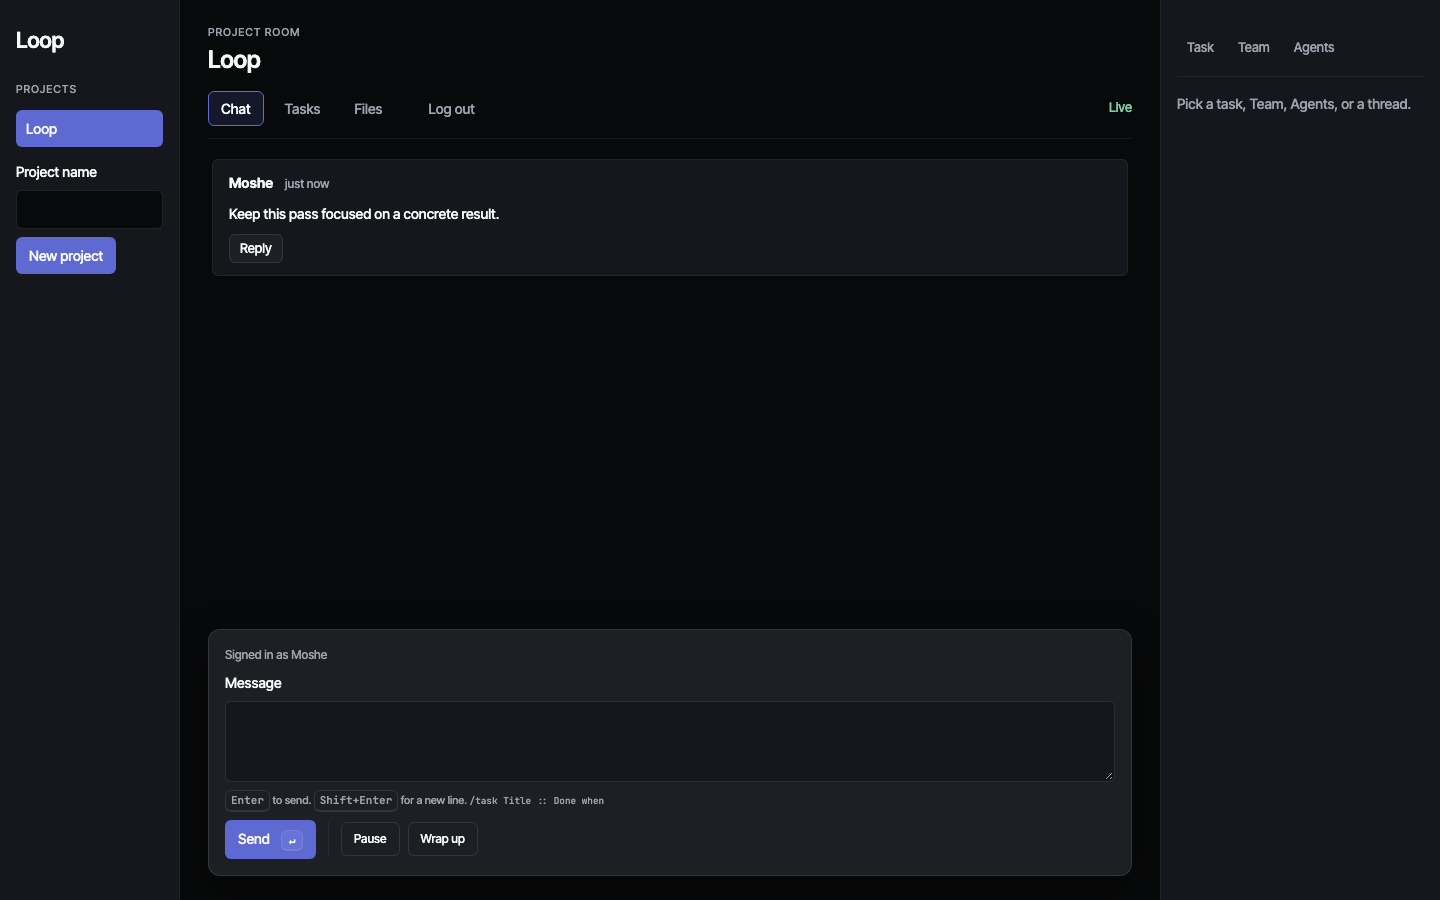
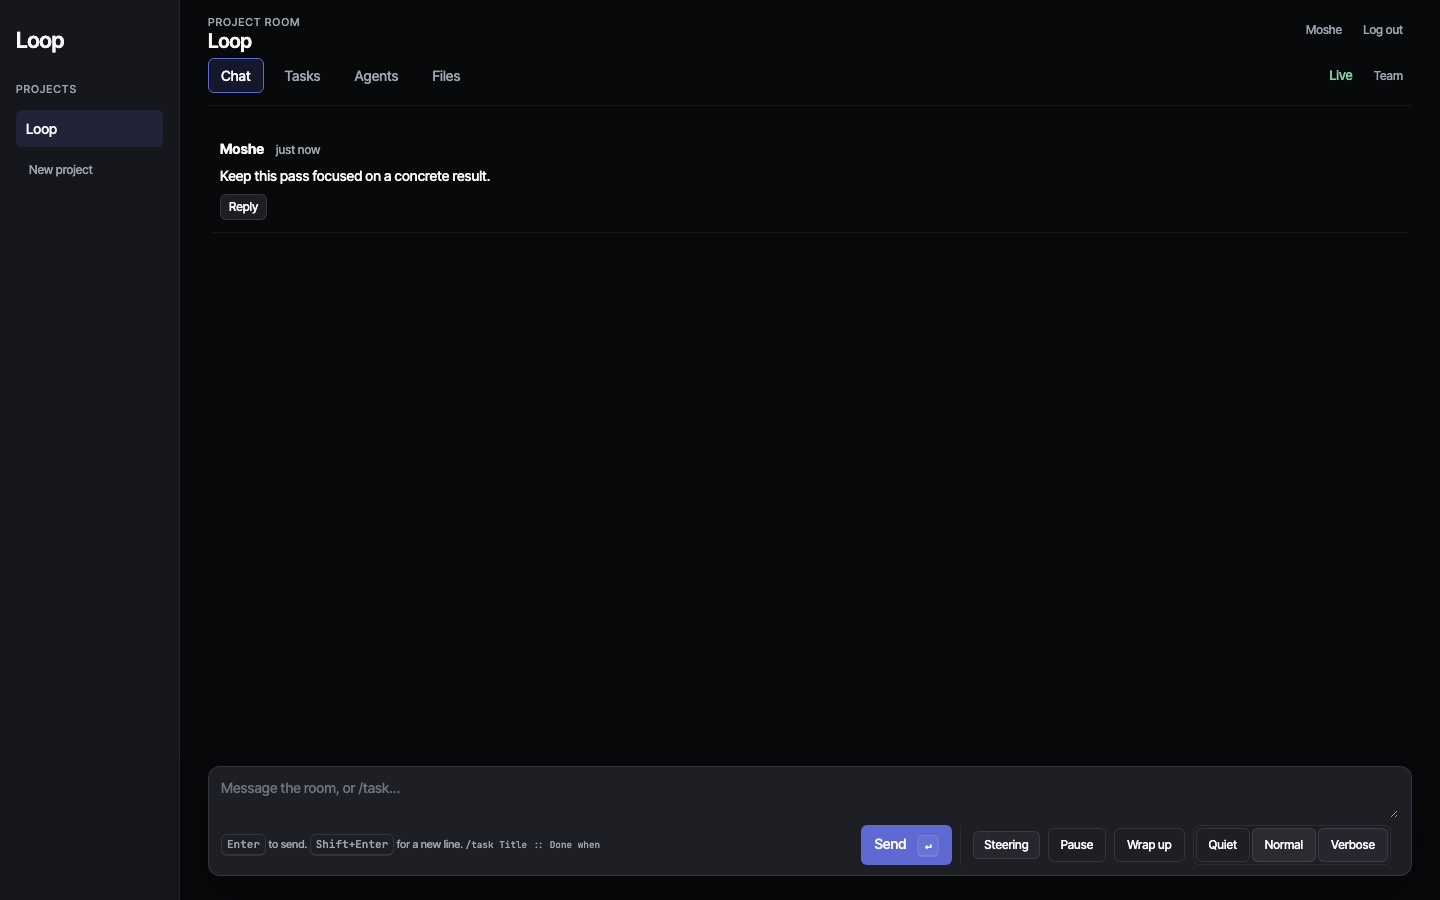
feat: collapse room steering behind a disclosure
The composer was 154px of always-on chrome under a transcript that had
597px to work with. Pause, Wrap up and the verbosity dial sat in the
primary input on every room, including rooms with no agent running.

They now live in a hidden panel behind a Steering toggle that carries
aria-expanded and aria-controls, and reports paused and wrap-up state on
its own label so a collapsed panel never hides that a room is stopped.
The composer hint and actions share a row instead of each spanning the
grid, and the header stack above the tab row tightens.

Measured at 1440x900, room view, same harness before and after:
composer 154px to 110px, transcript 597px to 660px, room views nav
y=78 to y=58. Expanding steering does not grow the composer.

diff --git a/apps/web/app/globals.css b/apps/web/app/globals.css
@@ -52,7 +52,7 @@ aside { padding: 24px 16px; background: var(--panel); min-width: 0; }
 .inspector-body { flex: 1; overflow-y: auto; padding-top: 16px; }
 .inspector-empty { color: var(--secondary); font-size: 14px; }
 .inspector .task-detail { margin-top: 0; }
-main { padding: 24px 28px; min-width: 0; display: flex; flex-direction: column; height: 100vh; background: var(--ground); overflow-y: auto; }
+main { padding: 16px 28px 24px; min-width: 0; display: flex; flex-direction: column; height: 100vh; background: var(--ground); overflow-y: auto; }
 main > header { flex-shrink: 0; position: relative; padding-right: 180px; }
 #account-chrome { position: absolute; right: 0; top: 0; }
 .account-chrome { display: flex; align-items: center; gap: 12px; font-size: 12px; color: var(--secondary); }
@@ -60,13 +60,13 @@ main > header { flex-shrink: 0; position: relative; padding-right: 180px; }
 .room-navigation { display: flex; align-items: center; gap: 12px; border-bottom: 1px solid var(--hairline); padding-bottom: 12px; flex-shrink: 0; }
 .room-navigation nav { flex: 1; border: 0; padding: 0; }
 .room-tools { display: flex; gap: 4px; }
-main > header .muted { font-size: 11px; letter-spacing: .08em; text-transform: uppercase; margin-bottom: 4px; }
+main > header .muted { font-size: 11px; letter-spacing: .08em; text-transform: uppercase; margin-bottom: 0; line-height: 1.2; }
 /* The chat section owns the leftover height so the transcript can never overlap
    the composer. A hardcoded transcript height guesses the composer's size and
    clipped the answer form under it. */
 main > section[aria-label="Chat"] { display: flex; flex-direction: column; flex: 1; min-height: 0; }
 h1, h2, h3, p { margin-top: 0; }
-h1 { font-size: 20px; line-height: 1.25; letter-spacing: -.02em; margin-bottom: 8px; font-weight: 600; }
+h1 { font-size: 20px; line-height: 1.25; letter-spacing: -.02em; margin-bottom: 4px; font-weight: 600; }
 /* The rail wordmark is not a heading: the room's h1 already names the project,
    and two "Loop" headings read as two landmarks to a screen reader. */
 .brand { font-size: 22px; letter-spacing: -.02em; font-weight: 600; margin-bottom: 24px; }
@@ -168,7 +168,7 @@ th, td { padding: 14px 8px; border-bottom: 1px solid var(--hairline); vertical-a
   line-height: 1;
 }
 .inspector-thread { display: flex; flex-direction: column; gap: 12px; min-height: 0; }
-.inspector-thread .composer { margin-bottom: 0; padding: 12px; }
+.inspector-thread .composer { margin-bottom: 0; padding: 12px; grid-template-columns: minmax(0, 1fr) auto; }
 .chat-task { border-left: 2px solid var(--border); padding-left: 14px; }
 .chat-task.question-card {
   background: var(--alert-soft);
@@ -277,16 +277,20 @@ th, td { padding: 14px 8px; border-bottom: 1px solid var(--hairline); vertical-a
 .proposal-options .proposal-option input[type="radio"] { flex: 0 0 auto; width: 16px; height: 16px; margin: 0; }
 .review-actions { display: flex; flex-wrap: wrap; gap: 8px; }
 .review-actions button { font-size: 12px; padding: 5px 10px; }
-.composer { margin-bottom: 0; flex-shrink: 0; gap: 8px; background: var(--surface); border-color: var(--border); border-radius: var(--radius-panel); box-shadow: var(--shadow-composer); }
+.composer { margin-bottom: 0; flex-shrink: 0; grid-template-columns: minmax(0, 1fr) auto; gap: 6px 12px; padding: 10px 12px; background: var(--surface); border-color: var(--border); border-radius: var(--radius-panel); box-shadow: var(--shadow-composer); }
 .composer textarea { background: transparent; border: 0; padding: 0; resize: vertical; max-height: 30vh; }
 .composer > .muted { font-size: 12px; }
-.composer .composer-hint { font-size: 11px; line-height: 1.8; }
+.composer .composer-hint { font-size: 11px; line-height: 1.3; align-self: center; margin: 0; }
 .composer:focus-within { border-color: var(--accent); }
-.composer-actions { display: flex; align-items: center; flex-wrap: wrap; gap: 12px; }
+.composer-actions { display: flex; align-items: center; flex-wrap: wrap; gap: 8px; margin: 0; }
 .room-steering { display: flex; align-items: center; flex-wrap: wrap; gap: 8px; border-left: 1px solid var(--hairline); padding-left: 12px; }
 .room-steering button { background: transparent; font-size: 12px; }
+.room-steering-toggle { padding: 4px 10px; }
+.room-steering-toggle[aria-expanded="true"] { background: var(--raised); }
+.room-steering-panel { display: flex; align-items: center; flex-wrap: wrap; gap: 8px; }
+.room-steering-panel[hidden] { display: none; }
 .room-steering .muted { font-size: 12px; }
-.verbosity-dial { display: flex; gap: 2px; border: 1px solid var(--hairline); border-radius: 6px; padding: 2px; }
+.verbosity-dial { display: flex; gap: 2px; border: 1px solid var(--hairline); border-radius: var(--radius-small); padding: 2px; }
 .verbosity-dial button[aria-pressed="true"] { background: var(--hairline); }
 .composer .wide { grid-column: 1 / -1; margin: 0; }
 nav button[aria-pressed="true"] { background: var(--accent-soft); color: var(--text); border-color: var(--accent); }

diff --git a/apps/web/components/RoomSteering.tsx b/apps/web/components/RoomSteering.tsx
@@ -8,9 +8,11 @@ export default function RoomSteering({ roomId }: { roomId: string }) {
   const [room, setRoom] = useState<RoomSummary | null>(null);
   const [busy, setBusy] = useState(false);
   const [error, setError] = useState('');
+  const [open, setOpen] = useState(false);
   const saving = useRef(false);
   const revision = useRef(0);
   const path = `/rooms/${encodeURIComponent(roomId)}`;
+  const panelId = 'room-steering-panel';
 
   useEffect(() => {
     const controller = new AbortController();
@@ -51,25 +53,33 @@ export default function RoomSteering({ roomId }: { roomId: string }) {
     } finally { saving.current = false; setBusy(false); }
   }
 
+  const status = `${room?.paused ? 'Paused. ' : ''}${room?.wrapUp ? 'Wrap up queued.' : ''}`;
   return <div className="room-steering" role="group" aria-label="Room steering">
-    <button type="button" disabled={!room || room.role !== 'owner' || busy}
-      title={room?.role === 'member' ? 'Only room owners can steer' : 'Pause new agent turns; running turns can finish'}
-      onClick={() => { void steer({ paused: !room?.paused }); }}>
-      {room?.paused ? 'Resume' : 'Pause'}
+    <button type="button" className="room-steering-toggle" aria-label="Steering" aria-expanded={open} aria-controls={panelId}
+      title={status || 'Pause, wrap up, and verbosity'}
+      onClick={() => { setOpen((value) => !value); }}>
+      Steering{room?.paused ? ' · Paused' : ''}{room?.wrapUp ? ' · Wrap up queued' : ''}
     </button>
-    <button type="button" disabled={!room || room.role !== 'owner' || busy || room.wrapUp}
-      title="Ask the next agent turn to converge on a result"
-      onClick={() => { void steer({ wrapUp: true }); }}>Wrap up</button>
-    <div className="verbosity-dial" role="group" aria-label="Verbosity">
-      {(['quiet', 'normal', 'verbose'] as const).map((verbosity) => <button key={verbosity}
-        type="button" aria-pressed={room?.verbosity === verbosity}
-        disabled={!room || room.role !== 'owner' || busy}
-        title={room?.role === 'member' ? 'Only room owners can steer' : `${verbosity} task progress`}
-        onClick={() => { void steer({ verbosity }); }}>
-        {verbosity[0].toUpperCase() + verbosity.slice(1)}
-      </button>)}
+    <div id={panelId} className="room-steering-panel" hidden={!open}>
+      <button type="button" disabled={!room || room.role !== 'owner' || busy}
+        title={room?.role === 'member' ? 'Only room owners can steer' : 'Pause new agent turns; running turns can finish'}
+        onClick={() => { void steer({ paused: !room?.paused }); }}>
+        {room?.paused ? 'Resume' : 'Pause'}
+      </button>
+      <button type="button" disabled={!room || room.role !== 'owner' || busy || room.wrapUp}
+        title="Ask the next agent turn to converge on a result"
+        onClick={() => { void steer({ wrapUp: true }); }}>Wrap up</button>
+      <div className="verbosity-dial" role="group" aria-label="Verbosity">
+        {(['quiet', 'normal', 'verbose'] as const).map((verbosity) => <button key={verbosity}
+          type="button" aria-pressed={room?.verbosity === verbosity}
+          disabled={!room || room.role !== 'owner' || busy}
+          title={room?.role === 'member' ? 'Only room owners can steer' : `${verbosity} task progress`}
+          onClick={() => { void steer({ verbosity }); }}>
+          {verbosity[0].toUpperCase() + verbosity.slice(1)}
+        </button>)}
+      </div>
     </div>
-    <span className="muted" role="status">{room?.paused ? 'Paused. ' : ''}{room?.wrapUp ? 'Wrap up queued.' : ''}</span>
+    <span className="muted" role="status">{status}</span>
     {error && <span role="alert">{error}</span>}
   </div>;
 }

diff --git a/tests/verbosity.spec.ts b/tests/verbosity.spec.ts
@@ -1,10 +1,17 @@
-import { test, expect, type BrowserContext } from '@playwright/test';
+import { test, expect, type BrowserContext, type Page } from '@playwright/test';
 import { spawn } from 'node:child_process';
 import { mkdtempSync, rmSync } from 'node:fs';
 import { tmpdir } from 'node:os';
 import { join, resolve } from 'node:path';
 import { once } from 'node:events';
 import { authedContext, seedSession, withAuth } from './auth';
+
+async function expandSteering(page: Page) {
+  const toggle = page.getByRole('group', { name: 'Room steering' }).getByRole('button', { name: 'Steering', exact: true });
+  await expect(toggle).toBeVisible();
+  if (await toggle.getAttribute('aria-expanded') !== 'true') await toggle.click();
+  await expect(toggle).toHaveAttribute('aria-expanded', 'true');
+}
 
 test('owners persist the verbosity dial, members cannot steer, and threads omit controls', async ({ browser, request: raw }) => {
   const dir = mkdtempSync(join(tmpdir(), 'loop-verbosity-browser-'));
@@ -32,12 +39,15 @@ test('owners persist the verbosity dial, members cannot steer, and threads omit 
     await page.goto('http://127.0.0.1:3100/?room=default');
     await expect(page.locator('[data-live]')).toHaveAttribute('data-live', '1');
     const controls = page.getByRole('group', { name: 'Room steering', exact: true });
+    await expandSteering(page);
     await expect(controls.getByRole('button', { name: 'Normal', exact: true })).toHaveAttribute('aria-pressed', 'true');
     for (const label of ['Quiet', 'Verbose', 'Normal']) {
+      await expandSteering(page);
       await controls.getByRole('button', { name: label, exact: true }).click();
       await expect(controls.getByRole('button', { name: label, exact: true })).toHaveAttribute('aria-pressed', 'true');
       expect((await (await request.get(`${apiUrl}/rooms/default`)).json()).verbosity).toBe(label.toLowerCase());
       await page.reload();
+      await expandSteering(page);
       await expect(controls.getByRole('button', { name: label, exact: true })).toHaveAttribute('aria-pressed', 'true');
     }
     await page.getByLabel('Message', { exact: true }).fill('Keep progress quiet while we focus. Switch to Verbose to inspect every line.');
@@ -61,6 +71,7 @@ test('owners persist the verbosity dial, members cannot steer, and threads omit 
     contexts.push(memberContext);
     const memberPage = await memberContext.newPage();
     await memberPage.goto('http://127.0.0.1:3100/?room=default');
+    await expandSteering(memberPage);
     const memberControls = memberPage.getByRole('group', { name: 'Verbosity', exact: true });
     await expect(memberControls.getByRole('button', { name: 'Normal', exact: true })).toHaveAttribute('aria-pressed', 'true');
     for (const label of ['Quiet', 'Normal', 'Verbose']) {

diff --git a/tests/steering.spec.ts b/tests/steering.spec.ts
@@ -1,4 +1,4 @@
-import { test, expect, type BrowserContext } from '@playwright/test';
+import { test, expect, type BrowserContext, type Page } from '@playwright/test';
 import { spawn } from 'node:child_process';
 import { mkdtempSync, rmSync, writeFileSync } from 'node:fs';
 import { tmpdir } from 'node:os';
@@ -8,6 +8,13 @@ import type { RoomSummary, Task } from '@loop/types';
 import { authedContext, seedSession, withAuth } from './auth';
 
 const apiUrl = 'http://127.0.0.1:3101/api';
+
+async function expandSteering(page: Page) {
+  const toggle = page.getByRole('group', { name: 'Room steering' }).getByRole('button', { name: 'Steering', exact: true });
+  await expect(toggle).toBeVisible();
+  if (await toggle.getAttribute('aria-expanded') !== 'true') await toggle.click();
+  await expect(toggle).toHaveAttribute('aria-expanded', 'true');
+}
 
 test('room steering persists, pauses the runner, wraps up one turn, and stays out of threads', async ({ browser, request: raw }) => {
   const dir = mkdtempSync(join(tmpdir(), 'loop-steering-browser-'));
@@ -40,6 +47,7 @@ test('room steering persists, pauses the runner, wraps up one turn, and stays ou
     await page.goto('http://127.0.0.1:3100/?room=default');
     await expect(page.locator('[data-live]')).toHaveAttribute('data-live', '1');
     const controls = page.getByRole('group', { name: 'Room steering' });
+    await expandSteering(page);
     await expect(controls.getByRole('button', { name: 'Pause', exact: true })).toBeEnabled();
     await page.getByLabel('Message', { exact: true }).fill('Keep this pass focused on a concrete result.');
     await page.getByLabel('Message', { exact: true }).press('Enter');
@@ -52,6 +60,7 @@ test('room steering persists, pauses the runner, wraps up one turn, and stays ou
     const state = async () => (await (await request.get(`${apiUrl}/rooms/default`)).json()) as RoomSummary;
     expect((await state()).paused).toBe(true);
     await page.reload();
+    await expandSteering(page);
     await expect(controls.getByRole('button', { name: 'Resume' })).toBeEnabled();
     await controls.getByRole('button', { name: 'Wrap up' }).click();
     await expect(controls).toContainText('Wrap up queued.');
@@ -98,6 +107,7 @@ test('room steering persists, pauses the runner, wraps up one turn, and stays ou
     const memberPage = await memberContext.newPage();
     await memberPage.goto('http://127.0.0.1:3100/?room=default');
     const memberControls = memberPage.getByRole('group', { name: 'Room steering' });
+    await expandSteering(memberPage);
     await expect(memberControls.getByRole('button', { name: 'Pause', exact: true })).toBeDisabled();
     await expect(memberControls.getByRole('button', { name: 'Wrap up' })).toBeDisabled();
 

diff --git a/apps/web/components/Composer.tsx b/apps/web/components/Composer.tsx
@@ -37,9 +37,9 @@ export default function Composer({
           event.currentTarget.form?.requestSubmit();
         }
       }} />
-    <p className="muted wide composer-hint"><kbd>Enter</kbd> to send. <kbd>Shift+Enter</kbd> for a new line. <code>/task Title :: Done when</code></p>
+    <p className="muted composer-hint"><kbd>Enter</kbd> to send. <kbd>Shift+Enter</kbd> for a new line. <code>/task Title :: Done when</code></p>
     {error && <p className="wide" role="alert">{error}</p>}
-    <div className="composer-actions wide">
+    <div className="composer-actions">
       <button type="submit" disabled={busy}>{busy ? 'Sending...' : 'Send'} <kbd aria-hidden="true">↵</kbd></button>
       {!parentId && <RoomSteering key={roomId} roomId={roomId} />}
     </div>
